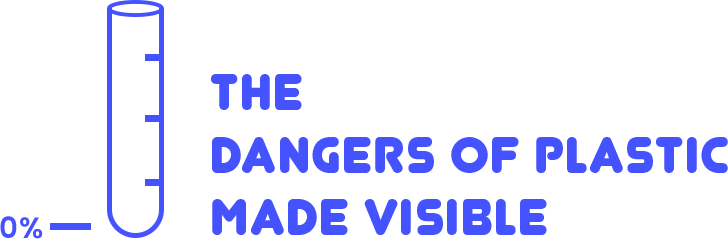
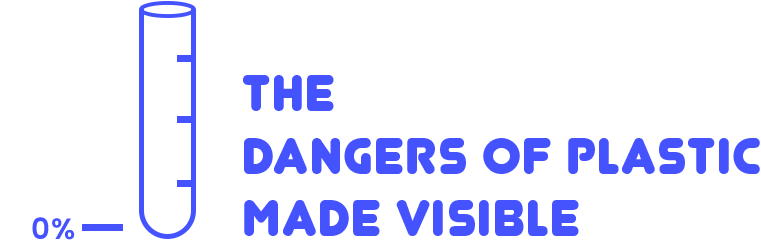
refined progress bar

Changed region(s): [[0.0, 0.0, 1.0, 1.0], [0.967, 0.5565, 1.0, 0.6151]]

diff --git a/static/js.js b/static/js.js
@@ -583,6 +583,7 @@ var imgs = document.images,
     counter = 0;
 splash = document.getElementById("splashscreendiv");
 bar = document.getElementById("splash_progressbar");
+current_val = 0;
 
 [].forEach.call( imgs, function( img ) {
     if(img.complete)
@@ -591,39 +592,44 @@ bar = document.getElementById("splash_progressbar");
       img.addEventListener( 'load', incrementCounter, false );
 } );
 
+function display_bar(value){
+
+    if(value >= (current_val+10) ){
+
+        current_val += 10;
+
+        document.getElementById("splash_progressbar_0").classList.add('hide');
+        document.getElementById("splash_progressbar_10").classList.add('hide');
+        document.getElementById("splash_progressbar_20").classList.add('hide');
+        document.getElementById("splash_progressbar_30").classList.add('hide');
+        document.getElementById("splash_progressbar_40").classList.add('hide');
+        document.getElementById("splash_progressbar_50").classList.add('hide');
+        document.getElementById("splash_progressbar_60").classList.add('hide');
+        document.getElementById("splash_progressbar_70").classList.add('hide');
+        document.getElementById("splash_progressbar_80").classList.add('hide');
+        document.getElementById("splash_progressbar_90").classList.add('hide');
+        document.getElementById("splash_progressbar_100").classList.add('hide');
+
+        var active_element = "splash_progressbar_" + current_val;
+        document.getElementById(active_element).classList.remove('hide');
+
+    }
+
+}
 
 function incrementCounter() {
     counter++;
     var percentage = parseInt(counter / len * 100);
-    console.log(percentage);
-
-    document.getElementById("splash_progressbar_0").classList.add('hide');
-    document.getElementById("splash_progressbar_20").classList.add('hide');
-    document.getElementById("splash_progressbar_60").classList.add('hide');
-    document.getElementById("splash_progressbar_40").classList.add('hide');
-    document.getElementById("splash_progressbar_80").classList.add('hide');
-    document.getElementById("splash_progressbar_100").classList.add('hide');
-
-
-    if(percentage > 80){
-        document.getElementById("splash_progressbar_80").classList.remove('hide');
-    } else if(percentage > 60){
-        document.getElementById("splash_progressbar_60").classList.remove('hide');
-    } else if(percentage > 40){
-        document.getElementById("splash_progressbar_40").classList.remove('hide');
-    } else if(percentage > 20){
-        document.getElementById("splash_progressbar_20").classList.remove('hide');
-    } else if(percentage > 0){
-        document.getElementById("splash_progressbar_0").classList.remove('hide');
-    }
-
+    display_bar(percentage);
+    //console.log(percentage);
 
     if ( counter === len ) {
         //bar.src = "new_images/first/Loading_Animation_100.png";
-        splash.style.animation="fadeOut 2s";
+        display_bar(100);
+        splash.style.animation="fadeOut 3s";
         setTimeout(function(){
             splash.classList.add("hide");
-        }, 2000);
+        }, 3000);
     }
 }
 

diff --git a/static/index.html b/static/index.html
@@ -18,22 +18,43 @@
 <div class="splash" id="splashscreendiv">
 
     <img id="splash_progressbar_0"
-    src="new_images/first/Loading_Animation_0.png">
+    src="new_images/first/Loading_Animation_0.png"
+    class="hide">
+
+    <img id="splash_progressbar_10"
+    src="new_images/first/Loading_Animation_10.png"
+    class="hide">
 
     <img id="splash_progressbar_20"
     src="new_images/first/Loading_Animation_20.png"
+    class="hide">
+
+    <img id="splash_progressbar_30"
+    src="new_images/first/Loading_Animation_30.png"
     class="hide">
 
     <img id="splash_progressbar_40"
     src="new_images/first/Loading_Animation_40.png"
     class="hide">
 
+    <img id="splash_progressbar_50"
+    src="new_images/first/Loading_Animation_50.png"
+    class="hide">
+
     <img id="splash_progressbar_60"
     src="new_images/first/Loading_Animation_60.png"
     class="hide">
 
+    <img id="splash_progressbar_70"
+    src="new_images/first/Loading_Animation_70.png"
+    class="hide">
+
     <img id="splash_progressbar_80"
     src="new_images/first/Loading_Animation_80.png"
+    class="hide">
+
+    <img id="splash_progressbar_90"
+    src="new_images/first/Loading_Animation_90.png"
     class="hide">
 
     <img id="splash_progressbar_100"

diff --git a/static/style_skrollr.css b/static/style_skrollr.css
@@ -16,6 +16,13 @@
     z-index: 4;
 }
 
+#splashscreendiv img {
+    position: absolute;
+  top: 50%;
+  left: 50%;
+  transform: translate(-50%, -50%)
+}
+
 @-webkit-keyframes fadeOut {
     0% { opacity: 1;}
     100% { opacity: 0;}
